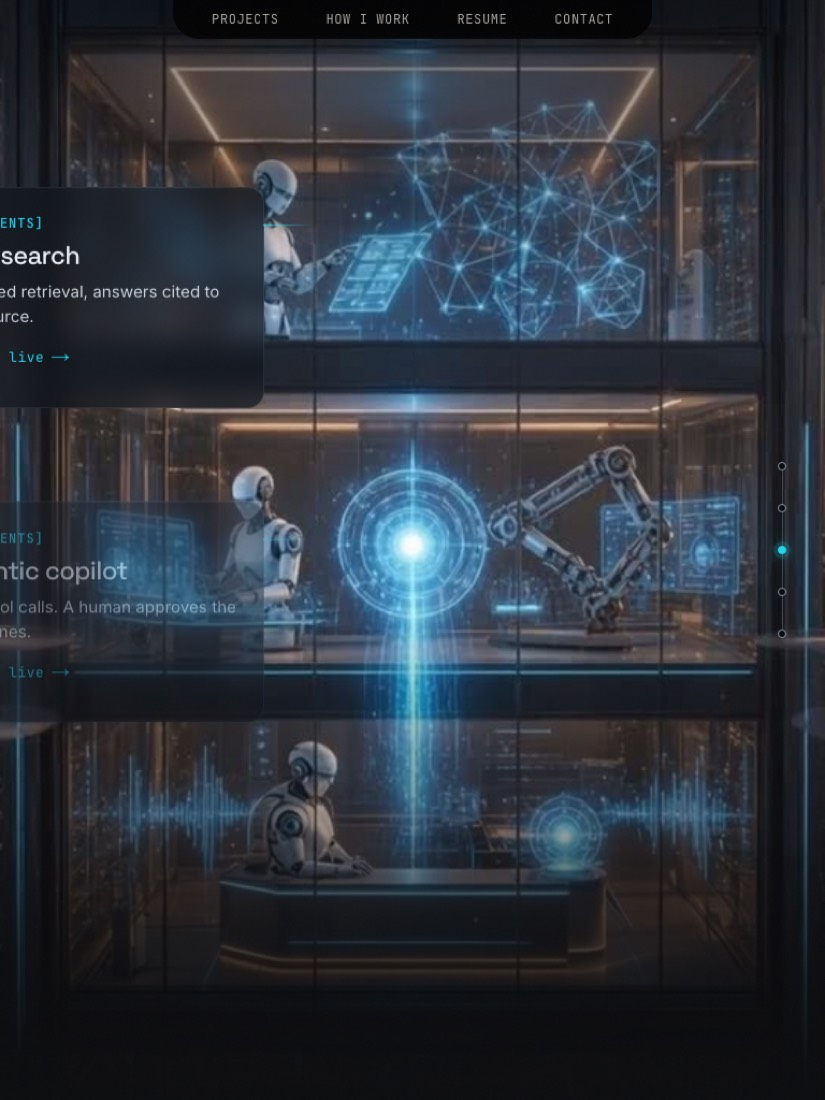
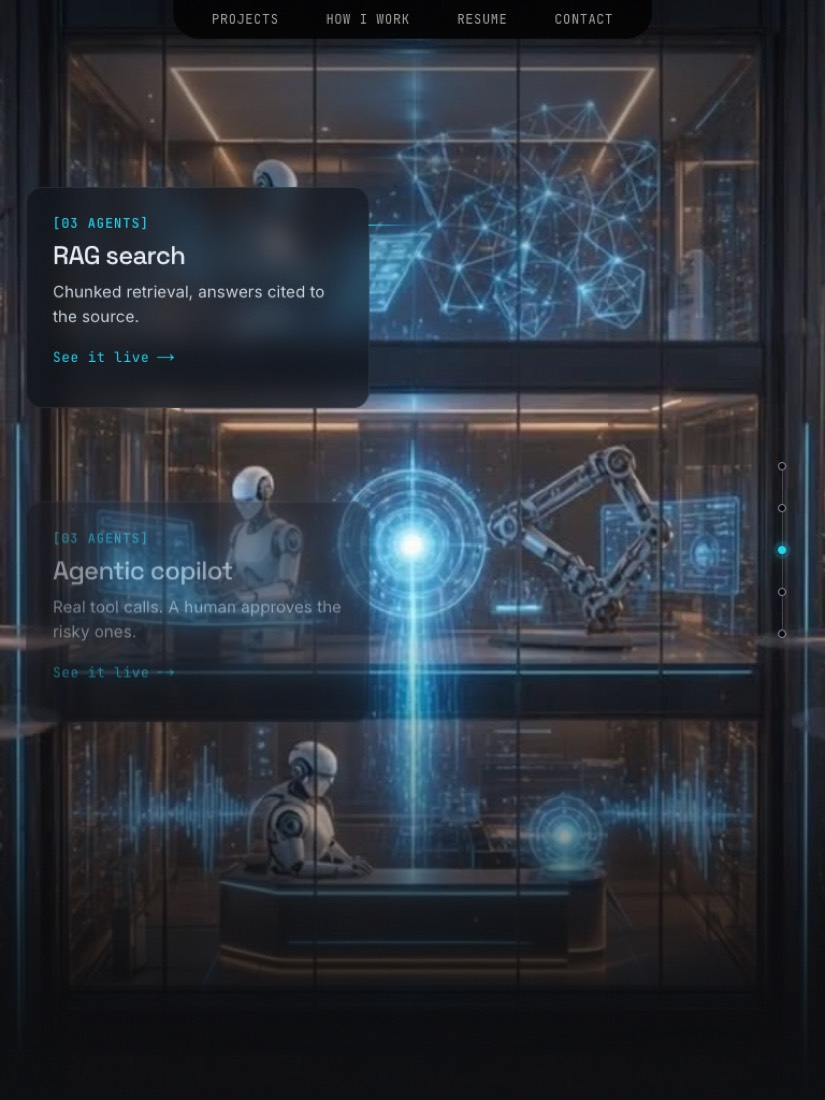
Keep stage 03 agent cards on-screen at tablet widths

diff --git a/app/globals.css b/app/globals.css
@@ -122,7 +122,7 @@ body {
   .cs[data-mode="film"] .cs-slot { left: 48px; right: auto; bottom: 64px; width: min(440px, 40vw); }
   /* Agent tags pinned beside the tower floors (top floor, middle floor) */
   .cs[data-mode="film"] .cs-group { inset: 0; display: block; }
-  .cs[data-mode="film"] .cs-item { position: absolute; left: auto; right: calc(50% + 18vw); width: 320px; padding: 1.5rem; }
+  .cs[data-mode="film"] .cs-item { position: absolute; left: max(24px, calc(32vw - 320px)); right: auto; width: 320px; padding: 1.5rem; }
   .cs[data-mode="film"] .cs-item-0 { top: 17%; }
   .cs[data-mode="film"] .cs-item-1 { top: 45%; }
   .cs[data-mode="film"] .cs-item::after {
